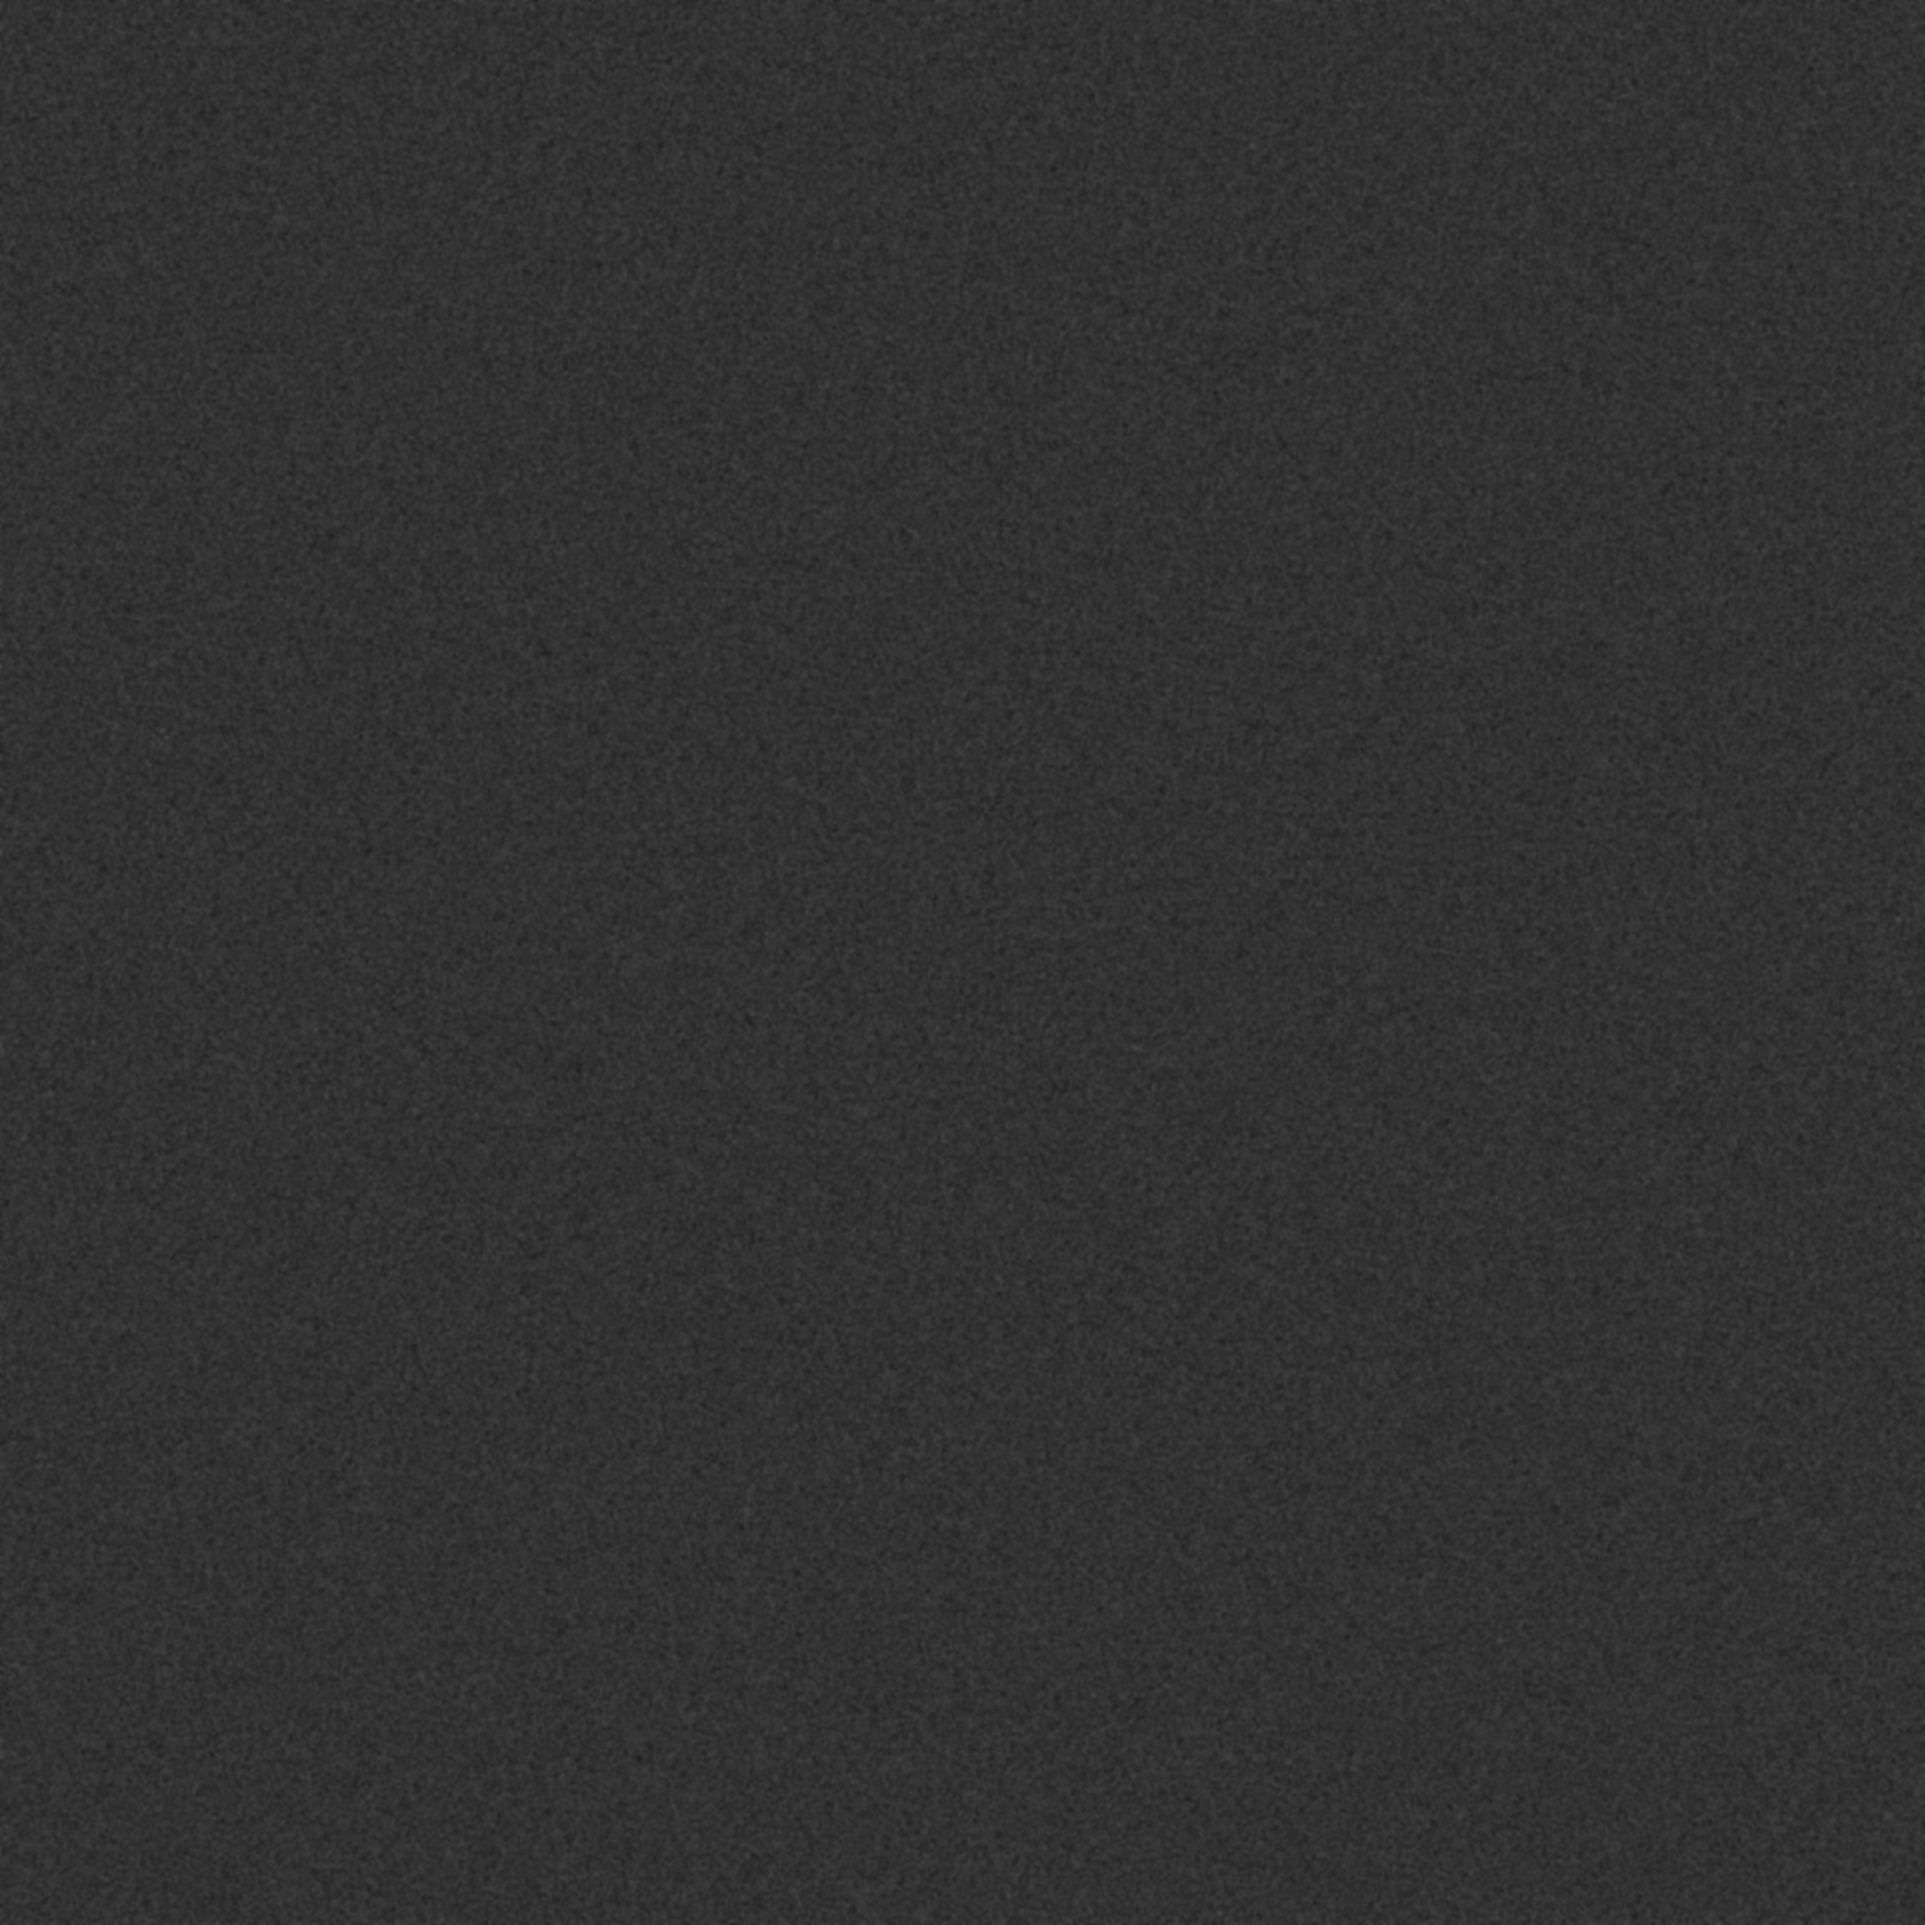
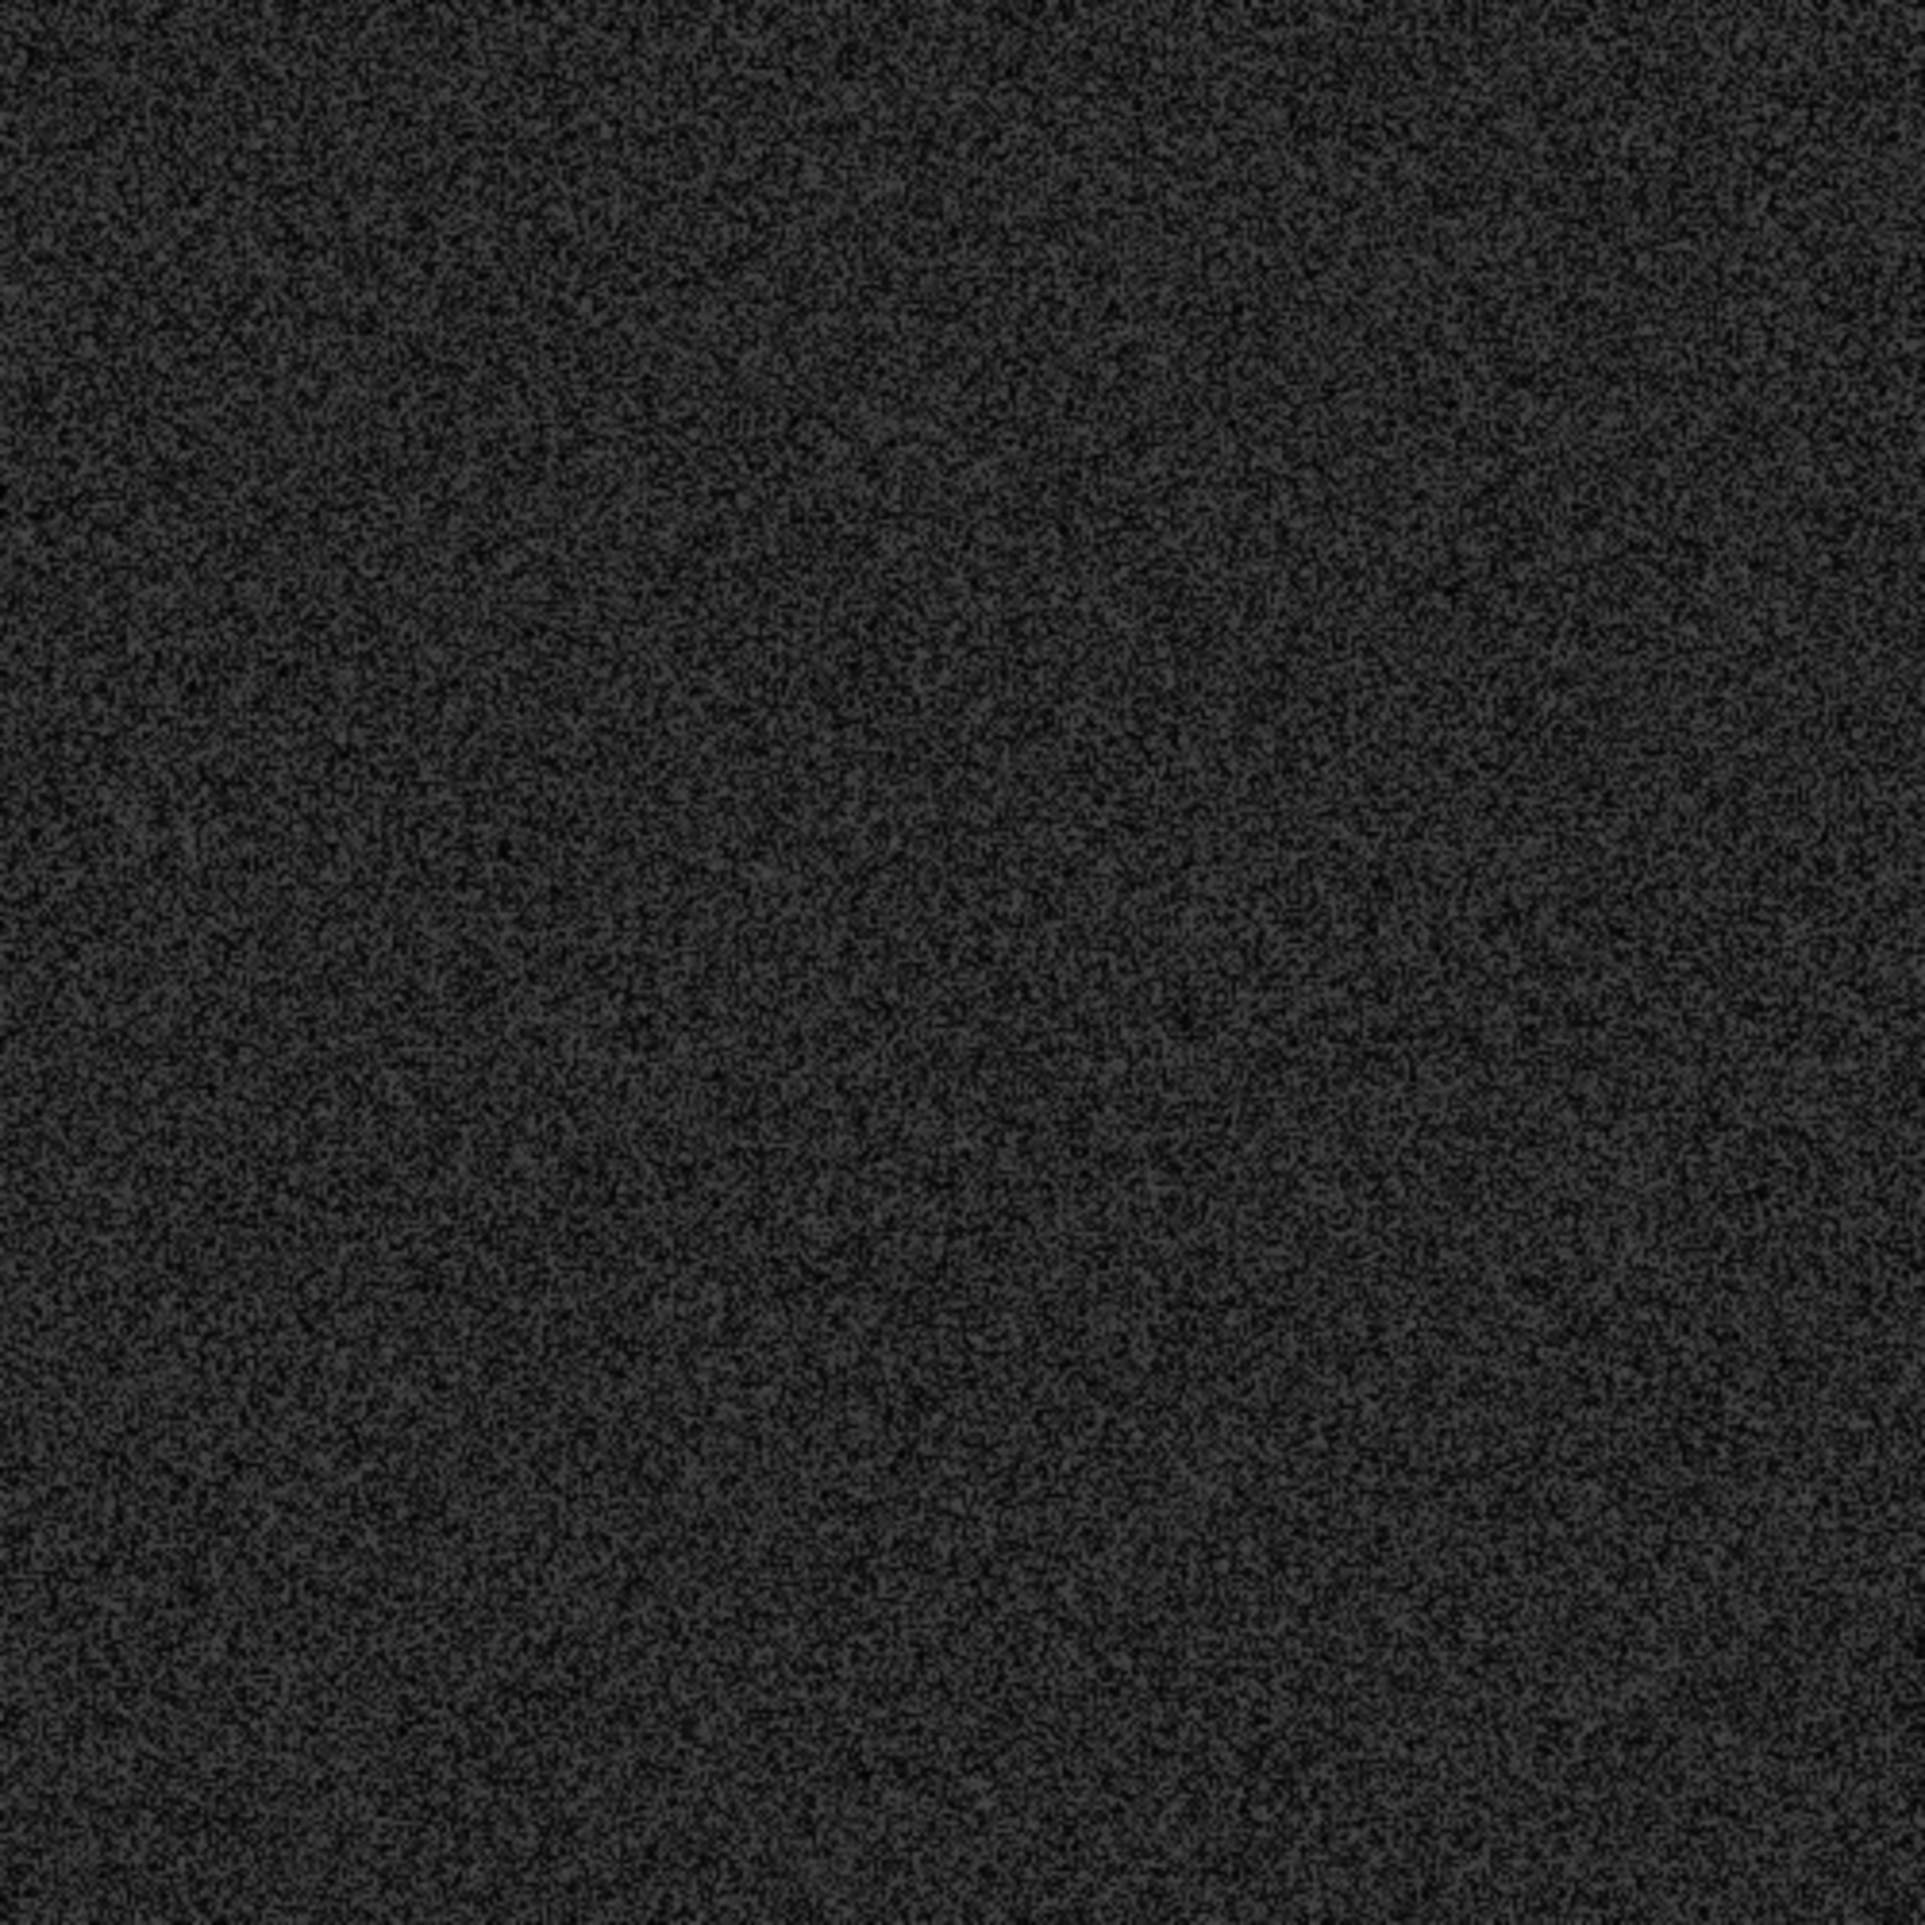
make background better

Changed region(s): [[0.0, 0.0, 1.0, 1.0]]

diff --git a/script.js b/script.js
@@ -445,8 +445,13 @@ function draw_text_window(cur_frame) {
 
 const background_images_pre = loadImages("images/blurred_images",5);
 var background_images = [];
+var finished_images = 0;
 background_images_pre.forEach((img) => img.onload= () => {
-    let cur_canvas= new OffscreenCanvas(2500,2500);cur_canvas.getContext("2d").drawImage(img,0,0); background_images.push(img);
+    let cur_canvas= new OffscreenCanvas(2500,2500);
+    cur_canvas.getContext("2d").drawImage(img,0,0); 
+    background_images.push(cur_canvas);
+    console.log("canvas finished");
+    finished_images++;
 });
 const background_move = [
     (t) => [Math.cos(t)*100,Math.sin(t)*100],
@@ -464,6 +469,7 @@ function draw_background(cur_frame) {
         let [x,y] = background_move[i](cur_frame/24);
         ctx.drawImage(background_images[i],x-200,y-200);
     }
+    ctx.globalAlpha = 1;
     
     // Draw the custom background object
     background.draw(cur_frame);

diff --git a/images/blur.py b/images/blur.py
@@ -2,39 +2,46 @@ from PIL import Image, ImageDraw, ImageFilter
 import random
 import os
 
-def generate_blurred_noise(width, height, blur_radius):
-    # Create a new image with white background
+def generate_blurred_noise(scaled_width, scaled_height, blur_radius, scale_factor=5):
+    # Calculate original dimensions
+    width = scaled_width // scale_factor
+    height = scaled_height // scale_factor
+
+    # Create a new smaller image with white background
     image = Image.new('RGB', (width, height), color='white')
     draw = ImageDraw.Draw(image)
 
     # Generate random noise
     for x in range(width):
         for y in range(height):
-            color = random.randint(0, 100)
+            color = random.randint(0, 75)
             colors = (color, color, color)
             draw.point((x, y), fill=colors)
 
+    # Scale up the image to desired dimensions
+    scaled_image = image.resize((scaled_width, scaled_height), Image.NEAREST)
+
     # Apply blur effect
-    blurred_image = image.filter(ImageFilter.GaussianBlur(blur_radius))
+    blurred_image = scaled_image.filter(ImageFilter.GaussianBlur(blur_radius))
 
     return blurred_image
 
-def save_images(num_images, width, height, blur_radius, output_dir, output_prefix=""):
+def save_images(num_images, scaled_width, scaled_height, blur_radius, output_dir, output_prefix=""):
     # Create output directory if it doesn't exist
     os.makedirs(output_dir, exist_ok=True)
 
     for i in range(num_images):
-        blurred_image = generate_blurred_noise(width, height, blur_radius)
+        blurred_image = generate_blurred_noise(scaled_width, scaled_height, blur_radius)
         filename = os.path.join(output_dir, f"{output_prefix}{i:03d}.png")  # Format filename with leading zeros
         blurred_image.save(filename)
         print(f"Image {i} saved as {filename}")
 
 # Parameters
-num_images = 5   # Number of images to generate
-width = 2500      # Width of each image
-height = 2500    # Height of each image
-blur_radius = 2  # Blur radius for Gaussian blur
+num_images = 5       # Number of images to generate
+scaled_width = 2500  # Desired scaled width of each image
+scaled_height = 2500 # Desired scaled height of each image
+blur_radius = 2      # Blur radius for Gaussian blur
 output_directory = "images/blurred_images"  # Output directory name
 
 # Generate and save images
-save_images(num_images, width, height, blur_radius, output_directory)
+save_images(num_images, scaled_width, scaled_height, blur_radius, output_directory)
